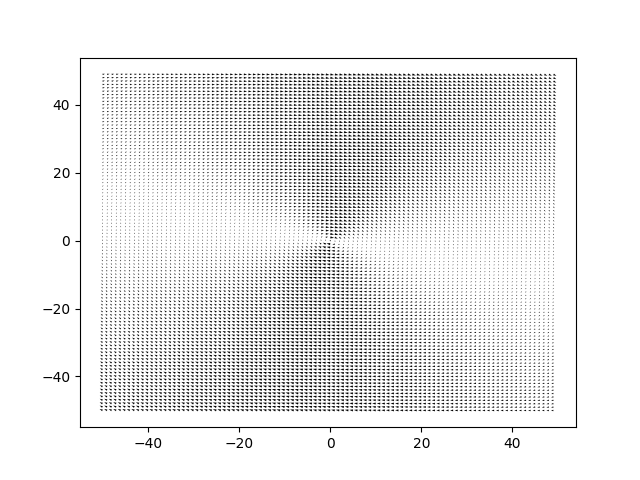
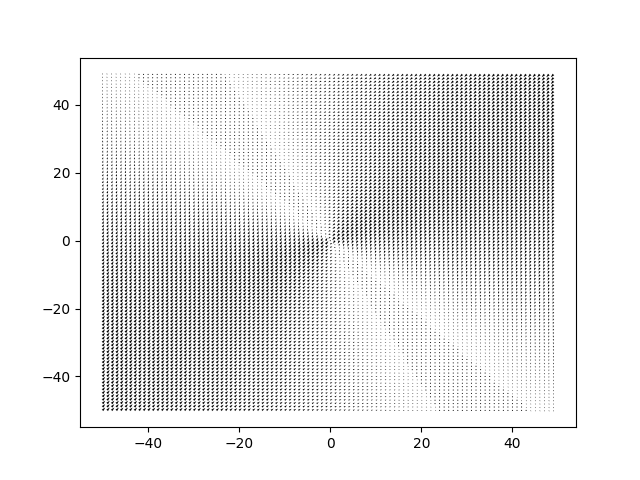
new gif

Changed region(s): [[0.1562, 0.1562, 0.875, 0.875]]

diff --git a/scripts/gif.py b/scripts/gif.py
@@ -3,7 +3,7 @@ import matplotlib.pyplot as plt
 import matplotlib.animation as animation
 from scipy.ndimage import convolve
 
-n = 30
+n = 100
 alpha = 1
 beta = 0
 gamma = 1
@@ -11,7 +11,7 @@ dt = 1e-1
 n_cycles = 1000
 cycles_per_frame = 10
 
-temps = np.concatenate((
+temps = 2 * np.concatenate((
     np.linspace(1, 0, n_cycles//5), 
     np.zeros(n_cycles//5), 
     np.linspace(0, .5, n_cycles//10), 

diff --git a/README.md b/README.md
@@ -6,7 +6,7 @@ This is a simulation of magnetic dipoles on a 2D lattice. Similar to the XY mode
 
 The difference is that this simulation is not calculated by sampling from a distribution, but assumes that the magnets have angular mass, treating the temperature as the average rotational energy of the magnets. Verlet integration is used to calculate the motion of the magnets, and a Nosé thermostat is used to keep the temperature constant.
 
-In the above GIF, the magnets are randomly initialized and have periodic boundary conditions. The temperature then decreases to zero, and the magnets align. When the temperature increases again, the emergence of magnetic domains can be observed.
+In the above GIF, the magnets are randomly initialized and have periodic boundary conditions. The temperature then decreases to zero, the magnets align and the temperature increases again. For low temperatures the emergence of magnetic domains can be observed.
 
 To calculate the local average of the magnetization, the grid is convolved with a constant kernel. The angle of the local magnetization determines the color of the arrow, and the length of the arrow is proportional to the magnitude of the local magnetization.
 
